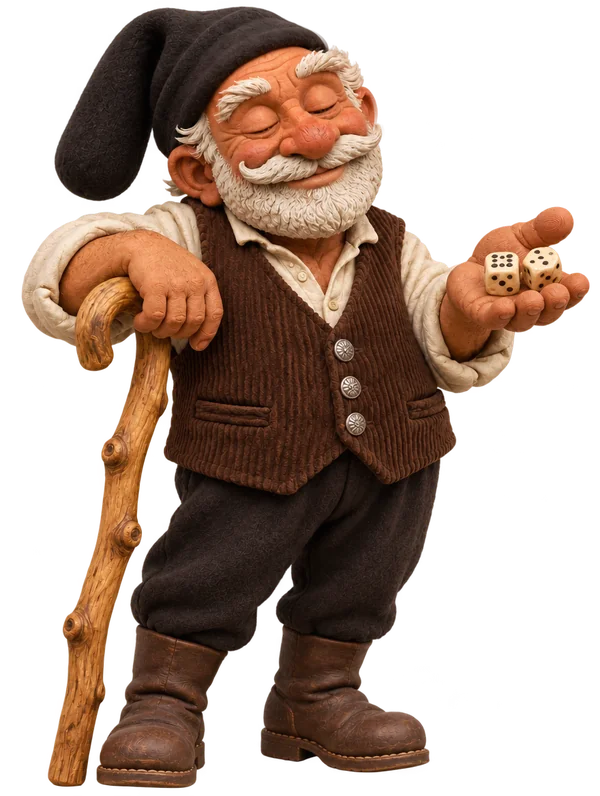
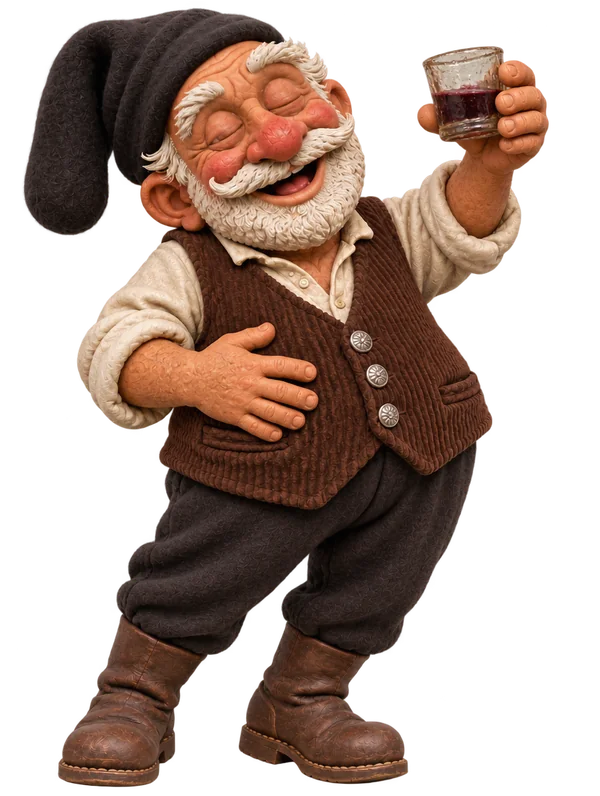
Tziu Gonario brillo, nuove frasi in sardo e clip ironiche
- Tziu Gonario è sempre un po' brillo: nuove pose con il bicchiere di
  vinello al posto del bastone, ondeggia e singhiozza.
- Clip: barcolla, singhiozza, beve vino nieddu e birra, si addormenta,
  se la ride, accarezza la pecora, balla col bicchiere per lo Yatzy.
- Nuove frasi in sardo (prese in giro, complimenti, vino e da ubriaco).
- "Cinquina" diventa "Yatzy" ovunque.

diff --git a/game.js b/game.js
@@ -14,7 +14,7 @@ const CATS = [
   { id: 'full',   label: 'Full',        hint: 'Tre più due · 25' },
   { id: 'small',  label: 'Scala corta', hint: 'Quattro in fila · 30' },
   { id: 'large',  label: 'Scala lunga', hint: 'Cinque in fila · 40' },
-  { id: 'cinq',   label: 'Cinquina',    hint: 'Cinque uguali · 50' },
+  { id: 'cinq',   label: 'Yatzy',       hint: 'Cinque uguali · 50' },
   { id: 'chance', label: 'Chance',      hint: 'Somma dei dadi' },
 ];
 // Variante Arcobaleno: ogni dado ha anche un colore (rubino, smeraldo, zaffiro)
@@ -403,7 +403,7 @@ const LINES = {
   yourTurnTu: ['Tocca a te. Il vento è a favore!', 'A te i dadi: tre lanci, come tre giorni di sole per far maturare un frutto.', 'Il tuo turno. Semina bene!'],
   myTurn: ['Ora tocca a me. Ascolto il maestrale…', 'Tocca a me. Le mie pecore sanno che qui si fa sul serio.', 'Mescolo i dadi come la terra prima della semina.', 'Silenzio… anche il gufo aspetta il momento giusto.'],
   foeTurn: ['Tocca a {n}. Osserviamo, come l\'airone che aspetta il pesce.', '{n} lancia: vediamo che vento tira.', 'Ora {n}. Pazienza: la quercia non cresce in un giorno.'],
-  cinq: ['Per mille querce! Cinque petali uguali sullo stesso fiore!', 'Cinque uguali! Come uno stormo che vola tutto insieme!', 'Una cinquina! Più rara di un quadrifoglio… anzi, di un cinquefoglio!'],
+  cinq: ['Per mille querce! Cinque petali uguali sullo stesso fiore!', 'Cinque uguali! Come uno stormo che vola tutto insieme!', 'Yatzy! Più raro di un quadrifoglio… anzi, di un cinquefoglio!'],
   large: ['Scala lunga! Ordinata come i cerchi di un vecchio tronco.', 'Cinque in fila, come gli anatroccoli dietro alla mamma!'],
   small: ['Scala corta: quattro sassi per attraversare il ruscello.', 'Quattro in fila: il sentiero nel bosco è tracciato.'],
   full: ['Un full! Tre alberi e due cespugli: un bosco in armonia.', 'Full! Come un nido: tre uova e due piume.'],
@@ -417,7 +417,7 @@ const LINES = {
   healFull: ['Già in piena salute: l\'acqua in un vaso pieno trabocca e basta.'],
   ko: ['{n} è a terra! Anche la quercia più grande cade, se il vento soffia forte.', '{n} è senza punti vita! La tempesta è passata.'],
   bonus: ['Bonus della parte alta: +35! Hai piantato bene, e ora raccogli i frutti.'],
-  extra: ['Un\'altra cinquina: +100! Due arcobaleni nello stesso giorno!'],
+  extra: ['Un altro Yatzy: +100! Due arcobaleni nello stesso giorno!'],
   teaseBad: ['Che lancio… nemmeno una lumaca bendata avrebbe fatto peggio.', 'Questi dadi sembrano foglie secche: sparsi e senza un perché.', 'Hai seminato sassi, caro mio. Non aspettarti il grano.', 'Un lancio così l\'ho visto fare solo a un riccio con i guanti.', 'Mmm. Anche il cuculo, quando sbaglia nido, fa più bella figura.'],
   teaseNear: ['Ahia! Eri a un passo, come la volpe sotto l\'uva.', 'Quasi! Il pesce ha toccato l\'amo… e se n\'è andato ridendo.', 'Per un dado! Come il fiore che sboccia il giorno dopo la festa.', 'Così vicino! Il picchio ci prova cento volte, tu riprovaci.'],
   teaseZero: ['Uno zero? Hai il pollice verde di un cactus di plastica.', 'Zero tondo, come un sasso di fiume. Almeno è liscio.', 'Hai appena innaffiato il deserto. Coraggio!', 'Zero. Perfino il bruco ride, e non ha nemmeno la bocca grande.'],
@@ -427,7 +427,7 @@ const LINES = {
   wisdom: [
     'Il fiume non spinge l\'acqua: aspetta che scenda. Così si aspetta il dado giusto.',
     'La Chance è come l\'ombrello: meglio tenerla per i giorni di pioggia.',
-    'Chi insegue la cinquina a ogni costo è come chi aspetta la neve ad agosto.',
+    'Chi insegue lo Yatzy a ogni costo è come chi aspetta la neve ad agosto.',
     'I numeri alti sono come le mele in cima all\'albero: valgono di più, ma bisogna arrivarci.',
     'Sessantatré punti in alto, e il bonus fiorisce come un ciliegio a primavera.',
     'Un dado tenuto è un seme piantato; un dado rilanciato è un seme affidato al vento.',
@@ -436,13 +436,13 @@ const LINES = {
     'Le api non si fermano su un solo fiore. Non fissarti su una sola casella.',
     'La luna cambia ogni notte, eppure torna sempre piena. Così fa la fortuna.',
     'Il bambù cresce in silenzio per anni, poi tocca il cielo in un attimo. Pazienza!',
-    'Uno zero sulla cinquina è come prosciugare il pozzo: pensaci bene prima.',
+    'Uno zero sullo Yatzy è come prosciugare il pozzo: pensaci bene prima.',
     'Un full è un piccolo frutteto: tre meli e due peri.',
     'Le stagioni non hanno fretta, e nemmeno i dadi.',
     'Il seme più piccolo, nel terreno giusto, diventa la quercia più grande. Anche un tris di uno, a volte, salva la partita.',
     'Quando il vento cambia, il saggio sposta la vela: se i dadi non vengono, cambia casella.',
     'Ehi, mi fai il solletico alla barba! Lancia, che è meglio.',
-    'Il maestrale non chiede permesso: arriva e cambia tutto. Come una cinquina.',
+    'Il maestrale non chiede permesso: arriva e cambia tutto. Come uno Yatzy.',
     'Le pecore seguono il pastore, i dadi seguono la fortuna. Tu segui la testa.',
     'Il sughero cresce piano, ma regge il vino buono per cent\'anni. Pazienza!',
     'Il muretto a secco si fa pietra su pietra: così si riempie la parte alta.',
@@ -468,12 +468,21 @@ const SARDO = {
     'Tziu Gonario at bidu de totu, ma custu mai!|Tziu Gonario ne ha viste tante, ma questa mai!',
     'Ma ses tontu?!|Ma sei scemo?!',
     'Lassa istare, lassa…|Lascia stare, lascia…',
+    'Ses prus tostu de una pedra!|Sei più testardo di una pietra!',
+    'Abberu? Ma non bi creo!|Davvero? Non ci credo!',
+    'Custu dadu est malu che a su tiàulu!|Questo dado è cattivo come il diavolo!',
+    'Oh Deus, ite pena!|Oh Dio, che pena!',
+    'Ses unu bellu macu!|Sei proprio matto!',
+    'Gai no andat bene, no!|Così non va bene, no!',
   ],
+  cottu: ['Itte cazzu ses cottu??|Ma che c…, sei cotto??'],
   slow: [
     'Ajò, ca est tardu!|Dai, che è tardi!',
     'Ses prus lentu de una tostoine.|Sei più lento di una tartaruga.',
     'Ajò, chi su sole est artu!|Dai, che il sole è alto!',
     'Pàsia, pàsia…|Calma, calma…',
+    'Ajò, chi s\'ora est passende!|Dai, che il tempo passa!',
+    'Atzìccu atzìccu… ma non gai!|Piano piano… ma non così!',
   ],
   near: [
     'Eja, eja… comente no!|Sì, sì… come no!',
@@ -487,6 +496,27 @@ const SARDO = {
     'Ite cosa bella!|Che bella cosa!',
     'Bellu meu!|Bello mio!',
     'Eja! Custu est unu pastore!|Sì! Questo è un pastore!',
+    'Ses unu leone!|Sei un leone!',
+    'Ite fortuna, bellu meu!|Che fortuna, bello mio!',
+    'Su pastore bonu non perdet mai una berbeghe.|Il buon pastore non perde mai una pecora.',
+    'Bravu, ma sa fortuna est cega!|Bravo, ma la fortuna è cieca!',
+  ],
+  vino: [
+    'A sa salude!|Alla salute!',
+    'Salude e trigu!|Salute e grano!',
+    'Su binu nieddu m\'at fatu bìdere sos dados dòpios!|Il vino nero mi ha fatto vedere i dadi doppi!',
+    'Unu tzichiritu de binu e torro a giogare.|Un goccetto di vino e torno a giocare.',
+    'Custu binu est menzus de sos dados tuos!|Questo vino è meglio dei tuoi dadi!',
+    'Ti lo ghetto unu binu nieddu?|Te lo verso un vino nero?',
+    'Ma ti lo buffes unu binellu?|Ma te lo bevi un vinello?',
+  ],
+  birra: ['Birredda ne cherese?|Una birretta, ne vuoi?'],
+  ubriaco: [
+    'Ih cazzu, forse ho esagerato allo tzilleri…',
+    'Sa bagassa mea, apo buffadu meda oe!|Mannaggia, oggi ho bevuto parecchio!',
+    'Ih lampu, soe cottu che pippa!|Accidenti, sono cotto come una pipa!',
+    'Hic! Ma cantos dados bi sunt? Nde bido deghe!|Hic! Ma quanti dadi ci sono? Ne vedo dieci!',
+    'Su mundu girat… o est sa mesa?|Il mondo gira… o è il tavolo?',
   ],
   cinq: ['A chent\'annos!|Cent\'anni!'],
   gloat: [
@@ -507,6 +537,21 @@ function mood(m, ms = 2400) {
   document.querySelectorAll('[data-mentor]').forEach(el => { el.dataset.mood = m; setPose(el, m); });
   clearTimeout(moodTimer);
   if (ms) moodTimer = setTimeout(() => mood('', 0), ms);
+}
+
+// Tziu Gonario è sempre un po' brillo: ogni tanto gli scappa un singhiozzo
+function hiccup() {
+  const el = [...document.querySelectorAll('[data-mentor]')].find(x => x.offsetParent && !x.classList.contains('player') && !x.closest('#cameo'));
+  if (!el || reducedMotion) return;
+  el.classList.remove('hic'); void el.offsetWidth; el.classList.add('hic');
+  const r = el.getBoundingClientRect();
+  const d = document.createElement('div');
+  d.className = 'hic-pop';
+  d.textContent = 'hic!';
+  d.style.left = `${Math.round(r.left + r.width * 0.65)}px`;
+  d.style.top = `${Math.round(r.top + r.height * 0.15)}px`;
+  document.body.appendChild(d);
+  setTimeout(() => d.remove(), 1300);
 }
 
 // Si sporge un po' verso il dito o il mouse
@@ -539,17 +584,27 @@ function pokeMentor(el) {
 
 // Se resti fermo un po', Tziu Gonario ti racconta qualcosa
 let idleTimer = null;
-function idleReset() {
+let idleTicks = 0;
+function idleReset(keepCount = false) {
   clearTimeout(idleTimer);
+  if (!keepCount) idleTicks = 0;
   idleTimer = setTimeout(() => {
+    idleTicks++;
     const inGame = $('#game').classList.contains('active');
     const inMenu = $('#menu').classList.contains('active');
     if (inGame && G && !busy && !curP().cpu) {
-      if (OPTS.tease && Math.random() < 0.45) { say(pick(SARDO.slow)); mood('smirk', 2000); }
+      if (idleTicks >= 3) {
+        // fermo da tanto: si addormenta (toccalo per svegliarlo)
+        cameo('Zzz… Tziu Gonario si è appisolato. Toccalo per svegliarlo!', 'cheer', true, 'g-sonno');
+      } else if (idleTicks === 2 && Math.random() < 0.6) {
+        say(SARDO.birra[0]);
+        cameo('Aaaaah, bella frisca!|Aaah, bella fresca!', 'cheer', true, 'g-birra');
+      } else if (OPTS.tease && Math.random() < 0.45) { say(pick(SARDO.slow)); mood('smirk', 2000); }
+      else if (Math.random() < 0.5) { say(pick(Math.random() < 0.5 ? SARDO.ubriaco : SARDO.vino)); mood('happy', 1500); hiccup(); }
       else { say(line('wisdom')); mood('think', 1500); }
     }
     else if (inMenu) say(line('wisdom'), '#menuSay');
-    idleReset();
+    idleReset(true);
   }, 16000);
 }
 
@@ -616,6 +671,7 @@ function newGame(setup) {
   // ritratti: il tuo personaggio (e online quello dell'amico)
   const charIds = setup.mode === 'online' || setup.mode === 'duo' ? (setup.chars || []) : [myChar()];
   charIds.forEach((c, i) => { if (players[i] && charSrc(c)) { players[i].ava = charSrc(c); players[i].charId = c; } });
+  loadGonarioClips();
   // clip di festa dei personaggi in gioco (e del Mammuthones nella sfida finale)
   players.forEach(q => { if (q.charId) loadClip(`char:${q.charId}`, `img/clip/${q.charId}.webp`); });
   if (setup.mode === 'adv' && STAGES[setup.stage].id === 'mammuthones') loadClip('mammuthones', 'img/clip/mammuthones.webp');
@@ -640,6 +696,10 @@ function newGame(setup) {
     online: setup.mode === 'online' ? { me: setup.me } : null };
   show('game');
   buildSheet();
+  if (!window._barcollato && !reducedMotion) {
+    window._barcollato = true;
+    setTimeout(() => cameo('Ih cazzu, forse ho esagerato allo tzilleri…', 'cheer', true, 'g-barcolla'), 1400);
+  }
   const st = stageOf();
   say(st ? (st.intro || `${st.place}: ${st.goalText.toLowerCase()}. Coraggio!`) : line('start'));
   startTurn(true);
@@ -680,6 +740,8 @@ function startTurn(first = false) {
     say(p.name === 'Tziu Gonario' ? line('myTurn') : line('foeTurn', { n: p.name }));
     mood('think', 2500);
     cpuTurn();
+  } else if (!first && Math.random() < 0.15) {
+    say(pick(SARDO.ubriaco)); hiccup();
   } else if (G.online) {
     say(myTurn() ? line('yourTurnTu') : line('foeTurn', { n: p.name }));
     if (!myTurn()) mood('think', 2000);
@@ -699,7 +761,7 @@ const CUP_SVG = `<svg viewBox="0 0 80 96" aria-hidden="true">
   <path d="M22 16 L27 80" stroke="#fff" stroke-opacity=".12" stroke-width="5" stroke-linecap="round"/>
 </svg>`;
 
-// Clip animata (WebP con trasparenza): si scarica una volta e riparte da capo a ogni cinquina
+// Clip animata (WebP con trasparenza): si scarica una volta e riparte da capo a ogni Yatzy
 // Clip animate (WebP con trasparenza): si scaricano una volta e ripartono da capo ogni volta
 const CLIP_MS = 5200;
 const clips = {};
@@ -708,7 +770,10 @@ function loadClip(key, url) {
   clips[key] = null;
   fetch(url).then(r => (r.ok ? r.blob() : null)).then(b => { clips[key] = b; }).catch(() => {});
 }
-loadClip('gonario', `${G_DIR}ballo.webp`);
+const loadGonarioClips = () => {
+  loadClip('gonario', `${G_DIR}ballo.webp`);
+  ['vino', 'birra', 'sonno', 'ride', 'pecora', 'barcolla', 'singhiozzo'].forEach(k => loadClip(`g-${k}`, `${G_DIR}${k}.webp`));
+};
 
 // Tziu Gonario entra in scena per festeggiare (non blocca il gioco)
 let lastCameo = 0;
@@ -906,12 +971,27 @@ function commit(id) {
     }
   }
   if (!hadBonus && bonusOf(p) > 0) msg = line('bonus');
-  if (sc === 0 && !msg && isMe(p)) { if (OPTS.tease && Math.random() < 0.55) { msg = sline('teaseZero', 'bad', 0.4); mood('smirk', 2600); } else { msg = line('zero'); mood('sad'); } }
-  else if (!msg && OPTS.tease && isMe(p) && sc > 0 && sc + 15 <= bestAvail && Math.random() < 0.6) { msg = sline('teaseWaste', 'bad', 0.35); mood('smirk', 2600); }
-  else if (!msg && p.cpu && p.name === 'Tziu Gonario' && sc >= 25 && Math.random() < 0.6) { msg = sline('gloat', 'gloat', 0.5); mood('happy'); }
+  if (sc === 0 && !msg && isMe(p)) {
+    if (OPTS.tease && Math.random() < 0.8) {
+      msg = Math.random() < 0.6 ? SARDO.cottu[0] : sline('teaseZero', 'bad', 0.4);
+      mood('smirk', 2600);
+      cameo(msg, 'cheer', false, 'g-ride');                 // Tziu Gonario se la ride
+    } else { msg = line('zero'); mood('sad'); }
+  }
+  else if (!msg && OPTS.tease && isMe(p) && sc > 0 && sc + 15 <= bestAvail && Math.random() < 0.6) {
+    msg = Math.random() < 0.3 ? SARDO.cottu[0] : sline('teaseWaste', 'bad', 0.35);
+    mood('smirk', 2600);
+    if (Math.random() < 0.5) cameo(msg, 'cheer', false, 'g-ride');
+  }
+  else if (!msg && p.cpu && p.name === 'Tziu Gonario' && sc >= 25 && Math.random() < 0.6) {
+    msg = sline('gloat', 'gloat', 0.5); mood('happy');
+    cameo(pick(SARDO.vino), 'cheer', false, 'g-vino');      // si concede un bicchiere di vino nieddu
+  }
+  else if (!isMe(p) && !p.cpu && sc >= 30 && Math.random() < 0.4) cameo(pick(SARDO.vino), 'cheer', false, 'g-vino');
   else if (!msg && p.cpu && p.lines && sc >= 25 && Math.random() < 0.6) { msg = `${p.name}: «${pick(p.lines)}»`; mood('sad'); }
   if (isMe(p) && sc >= 25) cheerChip(G.cur);
-  if (isMe(p) && (sc >= 30 || (!hadBonus && bonusOf(p) > 0))) cameo(sline('cheer', 'good', 0.5), sc >= 40 ? 'dance' : 'cheer');
+  if (isMe(p) && !hadBonus && bonusOf(p) > 0) cameo('Bonus! Anche la pecorella è contenta: su pastore bonu non perdet mai una berbeghe.', 'cheer', true, 'g-pecora');
+  else if (isMe(p) && sc >= 30) cameo(sline('cheer', 'good', 0.5), sc >= 40 ? 'dance' : 'cheer');
   if (bonusOf(p) > 0 && !hadBonus) mood('happy');
   let ko = false;
   if (G.battle) {
@@ -1276,7 +1356,7 @@ function buildSheet() {
     sumRow('upper', 'Parte alta') +
     sumRow('bonus', `Bonus <small>(63 → +35)</small>`) +
     LOWER.filter(c => !c.rainbow || G.rainbow).map(row).join('') +
-    sumRow('extra', 'Extra <small>(cinquine, elisir)</small>') +
+    sumRow('extra', 'Extra <small>(Yatzy extra, elisir)</small>') +
     sumRow('total', 'Totale') +
     '</tbody>';
 }
@@ -2202,7 +2282,16 @@ function init() {
       blinkLoop();
     }, 2200 + Math.random() * 3600);
   })();
-  setTimeout(() => say('Ajò! Sono Tziu Gonario. Toccami quando vuoi: ho un proverbio per ogni lancio.', '#menuSay'), 600);
+  setTimeout(() => say('Ajò! Sono Tziu Gonario… hic! Toccami quando vuoi: ho un proverbio per ogni lancio. E un bicchiere per ogni proverbio.', '#menuSay'), 600);
+  // all'apertura: Tziu Gonario singhiozza col suo bicchiere (una volta per sessione)
+  setTimeout(() => loadClip('g-singhiozzo', `${G_DIR}singhiozzo.webp`), 400);
+  setTimeout(() => {
+    if ($('#menu').classList.contains('active') && clips['g-singhiozzo']) cameo(pick(SARDO.ubriaco), 'cheer', true, 'g-singhiozzo');
+  }, 4500);
+  // ogni tanto un singhiozzo
+  (function hicLoop() {
+    setTimeout(() => { hiccup(); hicLoop(); }, 9000 + Math.random() * 9000);
+  })();
   if (Shake.on) {
     Shake.attach();
     // su iPhone il permesso va chiesto dopo un tocco

diff --git a/index.html b/index.html
@@ -175,15 +175,15 @@
       <li><b>Full</b>: tre uguali più due uguali, 25</li>
       <li><b>Scala corta</b>: quattro numeri in fila, 30</li>
       <li><b>Scala lunga</b>: cinque numeri in fila, 40</li>
-      <li><b>Cinquina</b>: cinque uguali, 50</li>
+      <li><b>Yatzy</b>: cinque uguali, 50</li>
       <li><b>Chance</b>: qualsiasi combinazione, la somma dei dadi</li>
     </ul>
     <h3>Variante Arcobaleno</h3>
     <p>Ogni dado esce anche con un colore: <b>rubino</b>, <b>smeraldo</b> o <b>zaffiro</b>. Il colore resta se tieni il dado. Due caselle in più: <b>Monocolore</b> (cinque dello stesso colore, 40) e <b>Full di colori</b> (tre di un colore e due di un altro, 20). La partita dura 15 turni.</p>
     <h3>Variante Battaglia</h3>
-    <p>Due giocatori, <b>150 punti vita</b> ciascuno. Le caselle della <b>parte alta curano</b> te (fino a 150), quelle della <b>parte bassa attaccano</b>: tolgono all'avversario tanti punti vita quanto il punteggio. Arrivare a 63 nella parte alta dà una cura di 35, e ogni cinquina extra toglie 50 punti all'avversario. Vince chi manda l'altro a zero; se finiscono le caselle, vince chi ha più punti vita.</p>
-    <h3>Cinquine extra</h3>
-    <p>Se hai già segnato 50 nella Cinquina, ogni nuova cinquina vale <b>100 punti bonus</b>. Se la casella Cinquina è già piena, una cinquina vale anche come jolly per Full e Scale.</p>
+    <p>Due giocatori, <b>150 punti vita</b> ciascuno. Le caselle della <b>parte alta curano</b> te (fino a 150), quelle della <b>parte bassa attaccano</b>: tolgono all'avversario tanti punti vita quanto il punteggio. Arrivare a 63 nella parte alta dà una cura di 35, e ogni Yatzy extra toglie 50 punti all'avversario. Vince chi manda l'altro a zero; se finiscono le caselle, vince chi ha più punti vita.</p>
+    <h3>Yatzy extra</h3>
+    <p>Se hai già segnato 50 nella casella Yatzy, ogni nuovo Yatzy vale <b>100 punti bonus</b>. Se la casella Yatzy è già piena, un nuovo Yatzy vale anche come jolly per Full e Scale.</p>
     <p class="muted">Puoi segnare una casella anche quando i dadi non la soddisfano: vale zero. A volte conviene!</p>
   </div>
 </section>

diff --git a/style.css b/style.css
@@ -540,7 +540,7 @@ tr:has(.cell.pickable) .lbl { cursor: pointer; }
 .g-wrap {
   position: absolute; inset: 0; transform-origin: 50% 100%;
   transform: rotate(var(--lean, 0deg));
-  animation: breathe 3.4s ease-in-out infinite;
+  animation: tipsy 4.2s ease-in-out infinite;
   transition: transform .5s ease-out;
 }
 .g-wrap img {
@@ -718,6 +718,20 @@ body.big .screen { zoom: 1.12; }
 @keyframes coachPulse { 50% { box-shadow: 0 0 0 4px var(--amber), 0 0 26px rgba(240, 166, 64, .8); } }
 #btnLearn2 { margin: 0 0 12px; }
 body.tut #game.screen { padding-bottom: 240px; }
+
+/* Tziu Gonario brillo: ondeggia e singhiozza */
+@keyframes tipsy {
+  0%, 100% { transform: rotate(calc(var(--lean, 0deg) - 2.5deg)) translateX(-1%); }
+  50% { transform: rotate(calc(var(--lean, 0deg) + 3deg)) translateX(1.5%) scale(1.01, .99); }
+}
+.portrait.hic .g-wrap { animation: hicJump .45s cubic-bezier(.3, 1.8, .5, 1), tipsy 4.2s ease-in-out .45s infinite; }
+@keyframes hicJump { 35% { transform: translateY(-5%) scale(.98, 1.04); } 70% { transform: translateY(1%); } }
+.hic-pop {
+  position: fixed; z-index: 22; pointer-events: none; transform: translate(-50%, -50%);
+  font: italic 800 16px var(--font-title); color: var(--amber-l); text-shadow: 0 2px 4px rgba(0, 0, 0, .6);
+  animation: hicUp 1.3s ease-out forwards;
+}
+@keyframes hicUp { 0% { opacity: 0; transform: translate(-50%, -20%) scale(.6); } 20% { opacity: 1; transform: translate(-30%, -90%) scale(1.1) rotate(-8deg); } 100% { opacity: 0; transform: translate(10%, -260%) rotate(10deg); } }
 
 /* ── Fine partita ── */
 .overlay {

diff --git a/sw.js b/sw.js
@@ -1,5 +1,5 @@
 // Cache per giocare offline. Cambia VERSION quando aggiorni i file.
-const VERSION = 'cd-v18';
+const VERSION = 'cd-v19';
 const FILES = ['./', 'index.html', 'style.css', 'game.js', 'icon.svg', 'manifest.webmanifest',
   'img/gonario/idle.webp', 'img/gonario/blink.webp', 'img/gonario/talk.webp', 'img/gonario/happy.webp',
   'img/gonario/wow.webp', 'img/gonario/smirk.webp', 'img/gonario/sad.webp', 'img/gonario/think.webp', 'img/gonario/ballo.webp',
